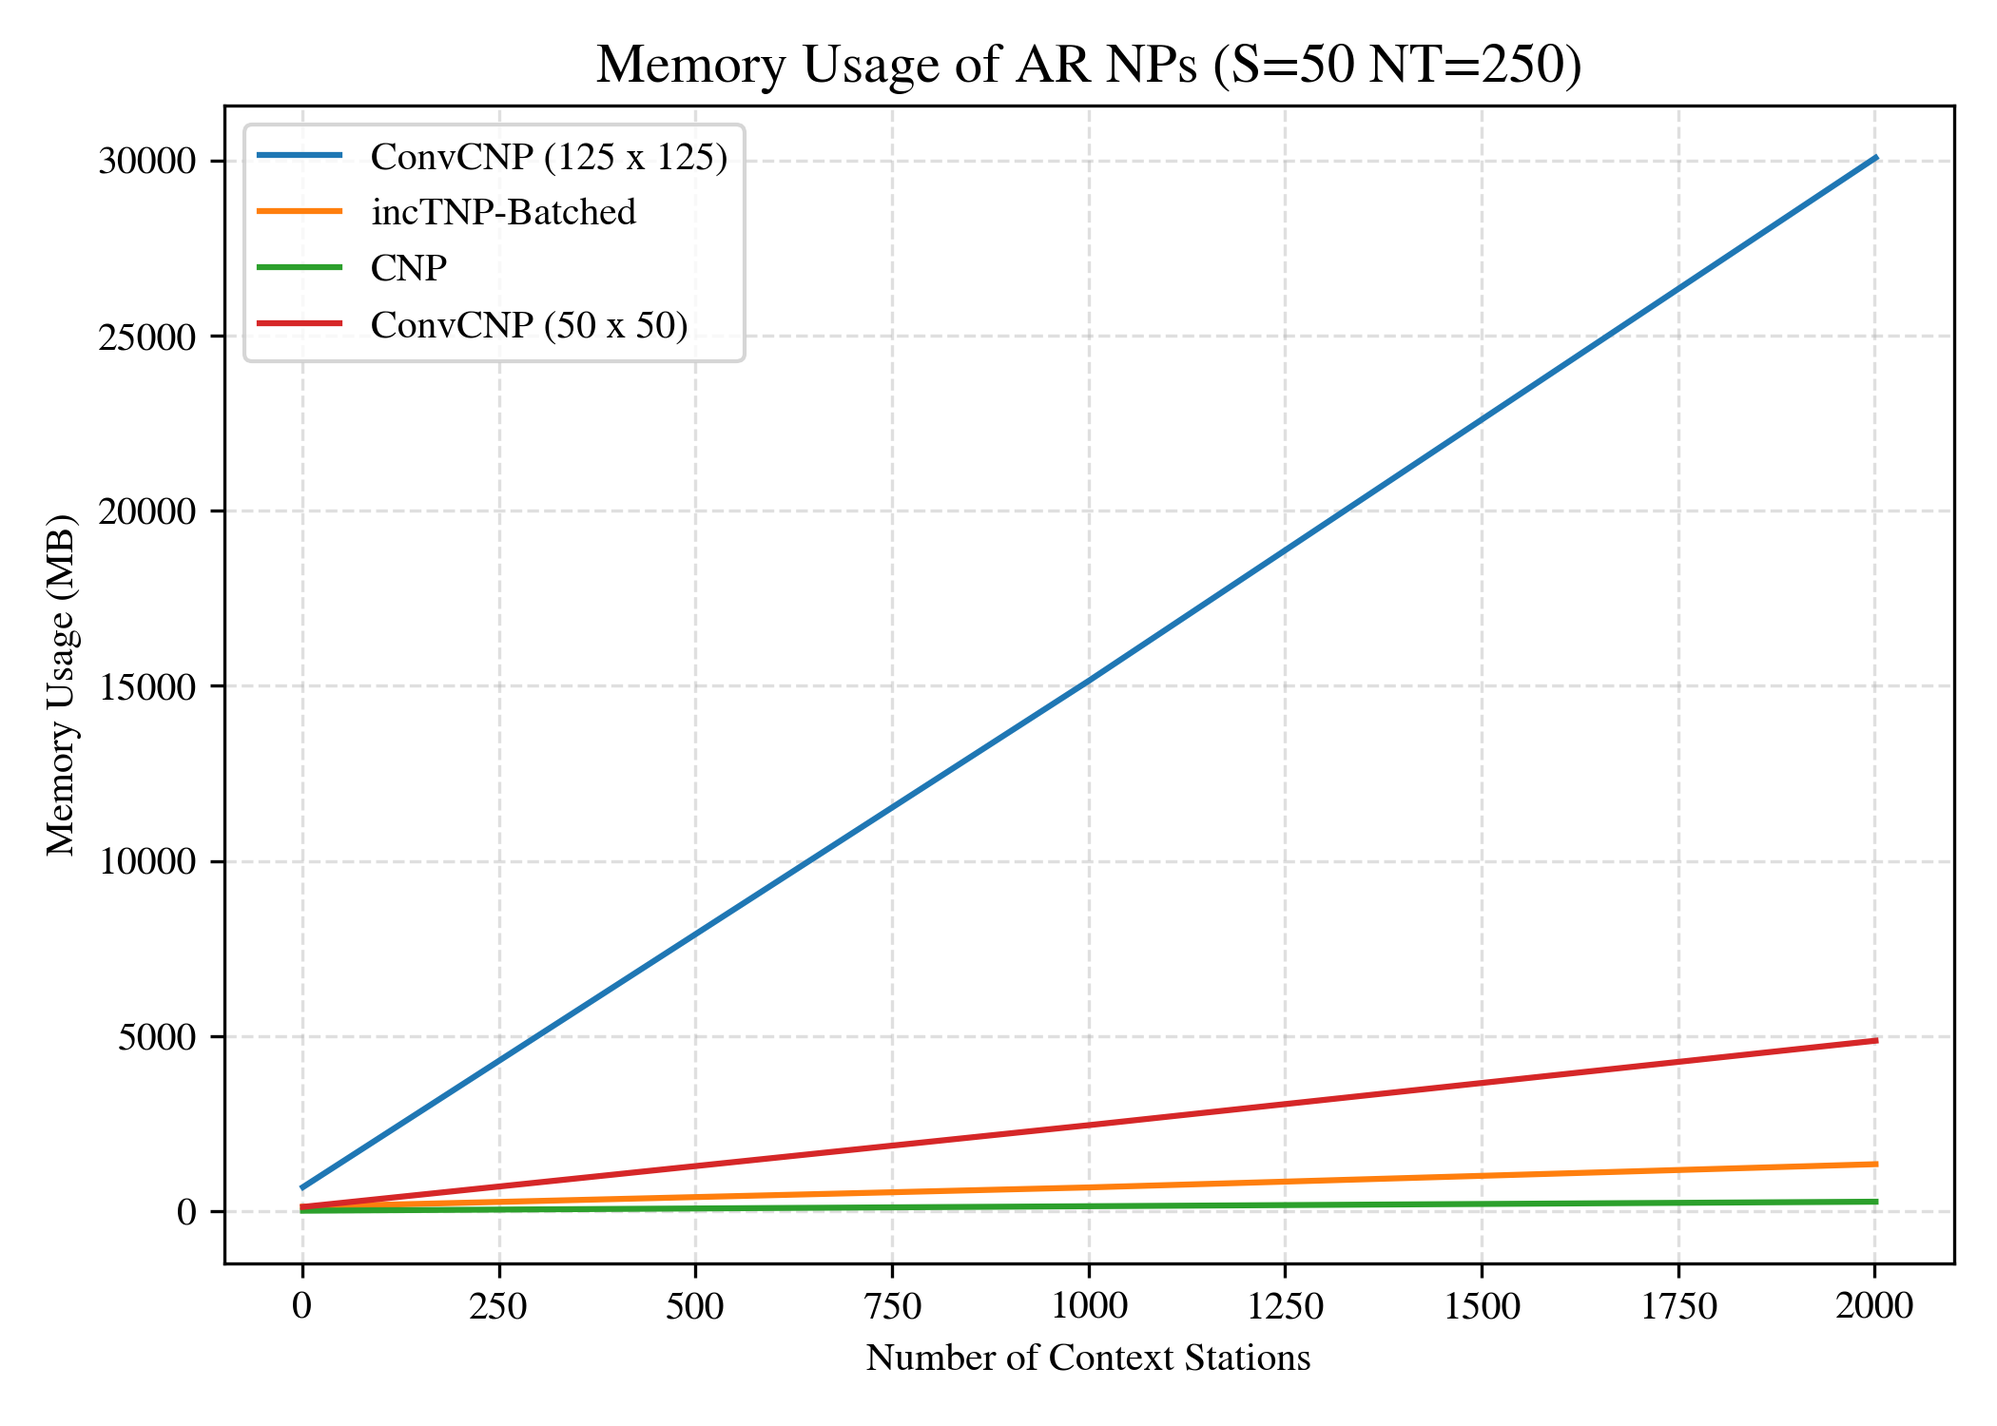
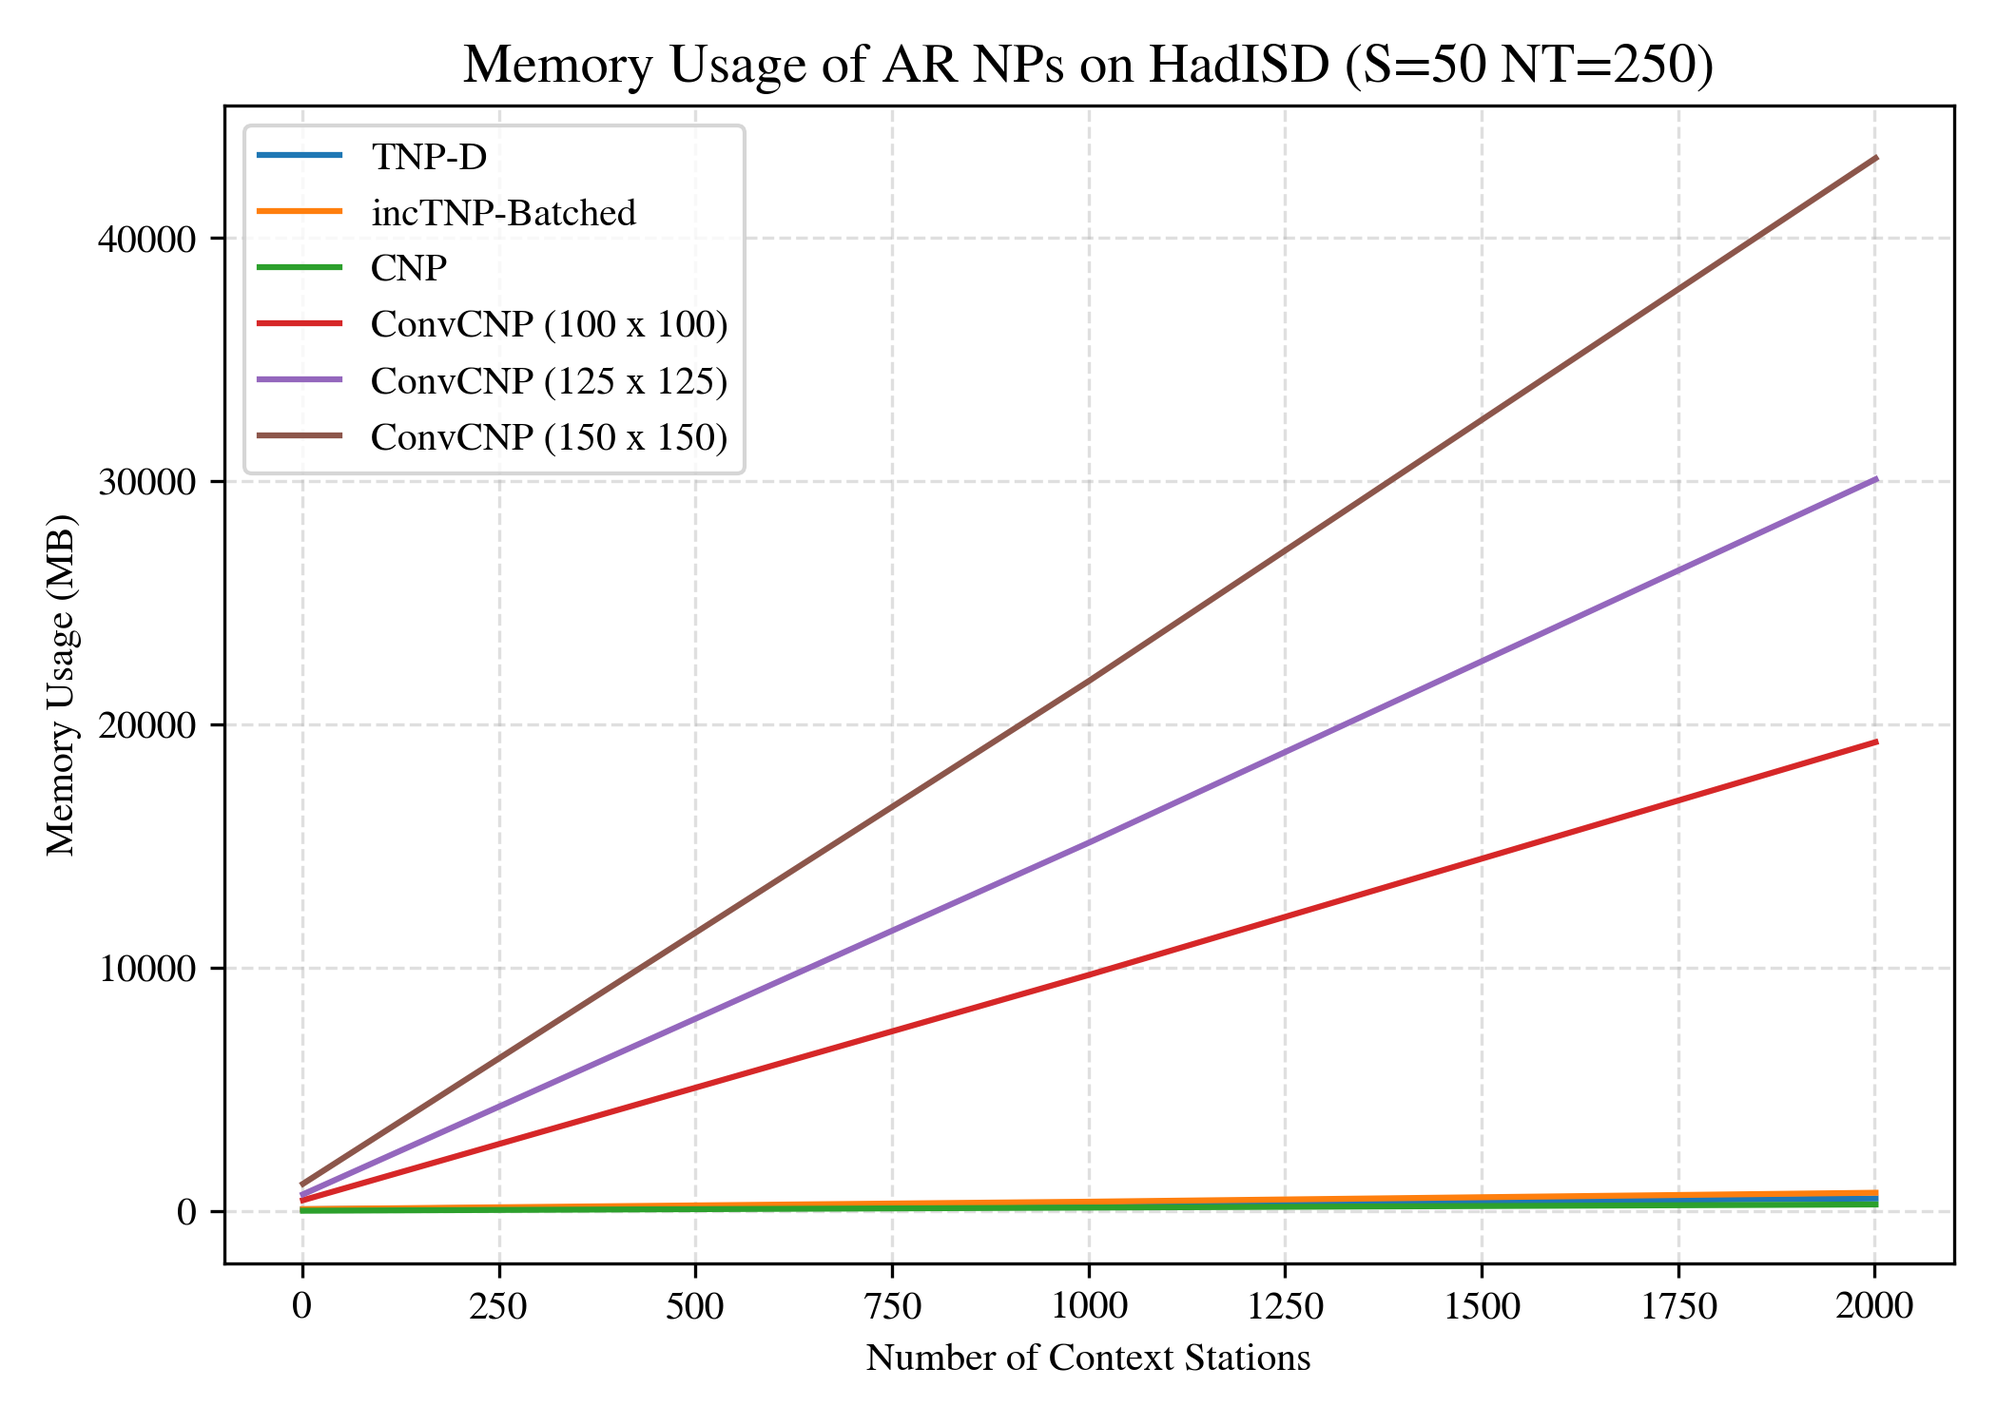
Plotting code plus flash used properly

diff --git a/experiments/arnphad_isd.py b/experiments/arnphad_isd.py
@@ -136,15 +136,15 @@ def ar_predict(model, xc: torch.Tensor, yc: torch.Tensor, xt: torch.Tensor,
     is_inc_gen_update = (is_inc_gen_update and  not prioritise_fixed) or (is_inc_gen_update and not is_fixed_inc_update)
     assert is_fixed_inc_update != is_inc_gen_update or (not is_fixed_inc_update and not is_inc_gen_update), "Xor onf fixed vs inc update"
     if is_inc_gen_update:
-        model.init_inc_structs(m=xc_stacked.shape[0], max_nc=nc+nt, device=device)
-        model.update_ctx(xc=xc_stacked, yc=yc_stacked)
+        model.init_inc_structs(m=xc_stacked.shape[0], max_nc=nc+nt, device=device,use_flash=use_flash)
+        model.update_ctx(xc=xc_stacked, yc=yc_stacked,use_flash=use_flash)
     elif is_fixed_inc_update:
         model.init_inc_structs_fixed(m=xc_stacked.shape[0], max_nc=nc+nt, xt=xt_stacked, dy=dy, device=device, use_flash=use_flash)
 
     for i in range(nt):
         xt_tmp = xt_stacked[:, i:i+1,:]
         if is_inc_gen_update:
-            pred_dist = model.query(xt=xt_tmp, dy=dy)
+            pred_dist = model.query(xt=xt_tmp, dy=dy,use_flash=use_flash)
         elif is_fixed_inc_update:
             pred_dist = model.query_fixed(tgt_start_ind=i, tgt_end_ind=i+1, use_flash=use_flash)
         else:
@@ -158,7 +158,7 @@ def ar_predict(model, xc: torch.Tensor, yc: torch.Tensor, xt: torch.Tensor,
         if i < nt - 1:
             yt_sampled = pred_dist.sample() # [m * num_samples, 1, dy]
             if is_inc_gen_update:
-                model.update_ctx(xc=xt_tmp, yc=yt_sampled)
+                model.update_ctx(xc=xt_tmp, yc=yt_sampled,use_flash=use_flash)
             elif is_fixed_inc_update:
                 model.update_ctx_fixed(xc=xt_tmp, yc=yt_sampled, use_flash=use_flash)
             else:
@@ -267,7 +267,7 @@ def measure_perf_timings_hadisd_plot():
     # Measure hypers
     burn_in = 1 # Number of burn in runs to ignore
     aggregate_over = 1 # Number of runs to aggregate data over
-    token_step = 1000 # How many increments of tokens to go up in
+    token_step = 50 # How many increments of tokens to go up in
     min_nc, max_nc = 1, 2003
     nt = 250
     dx, dy, m = 4, 1, 1
@@ -279,8 +279,8 @@ def measure_perf_timings_hadisd_plot():
     plot_name_folder = "experiments/plot_results/hadar/perf_plt/"
     tnp_plain = ('experiments/configs/hadISD/had_tnp_plain.yml',
         'pm846-university-of-cambridge/plain-tnp-had/model-o20d6s1q:v99', 'TNP-D')
-    priorBatched = ('experiments/configs/hadISD/had_incTNP_priorbatched.yml',
-        'pm846-university-of-cambridge/mask-priorbatched-tnp-had/model-83h4gpp2:v99', 'incTNP-Batched')
+    batchedTNP = ('experiments/configs/hadISD/had_incTNP_batched.yml',
+        'pm846-university-of-cambridge/mask-batched-tnp-had/model-z5nlguxq:v99', 'incTNP-Batched')
     cnp = ('experiments/configs/hadISD/had_cnp.yml',
         'pm846-university-of-cambridge/cnp-had/model-suqmhf9v:v99', 'CNP')
     conv_cnp = ('experiments/configs/hadISD/had_convcnp.yml',
@@ -288,8 +288,10 @@ def measure_perf_timings_hadisd_plot():
     conv_cnp_big = ('experiments/configs/hadISD/alt_variants/had_big_convcnp.yml',
         '', 'ConvCNP (100 x 100)')
     conv_cnp_125 = ('experiments/configs/hadISD_csd3/alt_variants/had_125_convcnp.yml',
-        '', 'ConvCNP (125 x 125)')    
-    models = [conv_cnp_125, priorBatched, cnp, conv_cnp, ]
+        '', 'ConvCNP (125 x 125)') 
+    conv_cnp_150 = ('experiments/configs/hadISD_csd3/alt_variants/had_between_convcnp.yml',
+        '', 'ConvCNP (150 x 150)')      
+    models = [tnp_plain, batchedTNP, cnp, conv_cnp_big, conv_cnp_125, conv_cnp_150]
     # End of measure hypers
     max_high = 2
     xt = (torch.rand((m, nt, dx), device=device) * max_high * 2) - max_high
@@ -300,8 +302,8 @@ def measure_perf_timings_hadisd_plot():
     starter, ender = torch.cuda.Event(enable_timing=True), torch.cuda.Event(enable_timing=True)
     for model_idx, (model_yml, model_wab, model_name) in enumerate(models):
         use_flash = False
-        if model_name == "incTNP-Batched":   # MAKE SURE TO ALTER ATTENTION CODE WHEN RUNNING THIS PART. With proper flash attentiin inc wins     
-            use_flash=False
+        if model_name == "incTNP-Batched":
+            use_flash=True
         model = get_model(model_yml, model_wab, seed=False, device=device, instantiate_only_model=True, load_mod_weights=False)
         model.eval() 
         for t_index, nc in tqdm(enumerate(context_sizes), desc=f'Targ {model_name}'):
@@ -341,7 +343,7 @@ def measure_perf_timings_hadisd_plot():
     ax.set_xlabel('Number of Context Stations')
     ax.set_ylabel('Runtime (s)')
     ax.legend()
-    ax.set_title(f'Runtime of AR NPs (S={num_samples} NT={nt})')
+    ax.set_title(f'Runtime of AR NPs on HadISD (S={num_samples} NT={nt})')
     ax.grid(True, linestyle='--', alpha=0.4)
     fig.tight_layout()
     plt.savefig(runtime_file_name, dpi=300)
@@ -353,7 +355,7 @@ def measure_perf_timings_hadisd_plot():
     ax.set_xlabel('Number of Context Stations')
     ax.set_ylabel('Memory Usage (MB)')
     ax.legend()
-    ax.set_title(f'Memory Usage of AR NPs (S={num_samples} NT={nt})')
+    ax.set_title(f'Memory Usage of AR NPs on HadISD (S={num_samples} NT={nt})')
     ax.grid(True, linestyle='--', alpha=0.4)
     fig.tight_layout()
     plt.savefig(memory_file_name, dpi=300)
@@ -463,7 +465,9 @@ def get_model_list():
     cnp = ('experiments/configs/hadISD/had_cnp.yml',
         'pm846-university-of-cambridge/cnp-had/model-suqmhf9v:v99', 'CNP')
     conv_cnp = ('experiments/configs/hadISD/had_convcnp.yml',
-        'pm846-university-of-cambridge/convcnp-had/model-p4f775ey:v98', 'ConvCNP')    
+        'pm846-university-of-cambridge/convcnp-had/model-p4f775ey:v98', 'ConvCNP (50 x 50)')
+    conv_cnp_100 = ('experiments/configs/hadISD/alt_variants/had_big_convcnp.yml',
+        'pm846-university-of-cambridge/convcnp-had/model-ecytkrfq:v99', 'ConvCNP (100 x 100)')
     #models = [tnp_plain, incTNP, batchedTNP, priorBatched, lbanp, cnp, conv_cnp]
     #models = [batchedTNP, conv_cnp, cnp, incTNP, priorBatched, tnp_plain, lbanp]
     models = [tnp_plain, conv_cnp, batchedTNP, cnp]

diff --git a/tnp/models/incTNPBatchedPrior.py b/tnp/models/incTNPBatchedPrior.py
@@ -102,15 +102,15 @@ class IncTNPBatchedEncoderPrior(nn.Module):
     @check_shapes(
         "zc_new: [m, nc_new, dz]", "mask_sa_big: [m, nc_max, nc_max]"
     )
-    def update_context(self, zc_new: torch.Tensor, kv_cache: dict, mask_sa_big: Optional[torch.Tensor] = None) -> torch.Tensor:
-        zc_updated = self.transformer_encoder.encode_context(zc_new, kv_cache=kv_cache)
+    def update_context(self, zc_new: torch.Tensor, kv_cache: dict, mask_sa_big: Optional[torch.Tensor] = None, use_flash: bool=False) -> torch.Tensor:
+        zc_updated = self.transformer_encoder.encode_context(zc_new, kv_cache=kv_cache, use_flash=use_flash)
 
     # Once the context has been conditioned on, this is used to run predictions. Essentially just the CA branch.
     @check_shapes(
         "zt: [m, nt, dz]", "return: [m, nt, dz]"
     )
-    def query(self, zt: torch.Tensor, kv_cache: dict) -> torch.Tensor:
-        return self.transformer_encoder.query(zt, kv_cache)
+    def query(self, zt: torch.Tensor, kv_cache: dict, use_flash: bool=False) -> torch.Tensor:
+        return self.transformer_encoder.query(zt, kv_cache, use_flash=use_flash)
 
     @check_shapes(
         "x: [m, n, dx]", "y: [m, n, dy]","return: [m, n, dz]"
@@ -198,21 +198,21 @@ class IncTNPBatchedPrior(BatchedCausalTNPPrior, IncUpdateEff, IncUpdateEffFixed)
         return dist
 
     # Logic for effecient incremental context updates
-    def init_inc_structs(self, m: int, max_nc: int, device: str):
+    def init_inc_structs(self, m: int, max_nc: int, device: str, use_flash: bool=False):
         self.kv_cache_inc = init_kv_cache()
         # Adds empty token
         start_token = self.encoder.empty_token.expand(m, -1, -1)
-        self.encoder.update_context(start_token, self.kv_cache_inc)
+        self.encoder.update_context(start_token, self.kv_cache_inc,use_flash=use_flash)
 
 
     # Adds new context points
-    def update_ctx(self, xc: torch.Tensor, yc: torch.Tensor):
+    def update_ctx(self, xc: torch.Tensor, yc: torch.Tensor, use_flash: bool=False):
         zc = self.encoder._preprocess_context(xc, yc)
-        self.encoder.update_context(zc, self.kv_cache_inc)
+        self.encoder.update_context(zc, self.kv_cache_inc,use_flash=use_flash)
 
-    def query(self, xt: torch.Tensor, dy: int) -> td.Normal:
+    def query(self, xt: torch.Tensor, dy: int, use_flash: bool=False) -> td.Normal:
         zt = self.encoder._preprocess_targets(xt, dy)
-        return self.likelihood(self.decoder(self.encoder.query(zt, self.kv_cache_inc), xt))
+        return self.likelihood(self.decoder(self.encoder.query(zt, self.kv_cache_inc, use_flash=use_flash), xt))
 
     # Greedy Context ordering algorithm using KV caching. Note it is incremental (so given an initial context set + a number of new ctx points it can pick the best order)
     # This approach assumes we already have all context points.

diff --git a/tnp/models/convcnp.py b/tnp/models/convcnp.py
@@ -115,7 +115,7 @@ class ConvCNP(ConditionalNeuralProcess, IncUpdateEff):
         self.likelihood.min_noise = 1e-5 #  Adds little noise here because sometimes scale is exactly 0 - check to ensure this is small enough to not impact other perf - hacky
 
     # Effecient incremental updates should only be used for hadIsd where this results in measurable speedup
-    def init_inc_structs(self, m: int, max_nc: int, device: str):
+    def init_inc_structs(self, m: int, max_nc: int, device: str, use_flash: bool=False):
         if not self.encoder.hadisd_mode:
                 raise RuntimeError("Uses non inc updates for 1d due to low cost.")
         self.inc_cache = {} # This is an empty cache structure used soley for storing incremental update objects
@@ -127,7 +127,7 @@ class ConvCNP(ConditionalNeuralProcess, IncUpdateEff):
         self.inc_cache["z_grid"] = None # Inits on first call to context update
 
     # Adds new context points
-    def update_ctx(self, xc: torch.Tensor, yc: torch.Tensor):
+    def update_ctx(self, xc: torch.Tensor, yc: torch.Tensor, use_flash: bool=False):
         # Builds hadISD feature vector
         flag = torch.ones_like(yc[..., :1])
         elev = xc[..., 2:3]
@@ -149,7 +149,7 @@ class ConvCNP(ConditionalNeuralProcess, IncUpdateEff):
         self.inc_cache["z_grid"] = setconv_to_grid(xc_coords, z_feats, self.inc_cache["x_grid"], 
             self.encoder.grid_encoder.lengthscale, z_grid=self.inc_cache["z_grid"], dist_fn=self.encoder.grid_encoder.dist_fn)
 
-    def query(self, xt: torch.Tensor, dy: int) -> td.Normal:
+    def query(self, xt: torch.Tensor, dy: int, use_flash: bool=False) -> td.Normal:
         # Runs CNN and z encoder as before
         xt_coords = xt[..., :2]
         z_grid = self.encoder.z_encoder(self.inc_cache["z_grid"])

diff --git a/tnp/networks/transformer.py b/tnp/networks/transformer.py
@@ -132,13 +132,13 @@ class TNPTransformerFullyMaskedEncoder(nn.Module):
     @check_shapes(
         "zc_new: [m, nc_new, dz]"
     )
-    def encode_context(self, zc_new: torch.Tensor, kv_cache: dict):
+    def encode_context(self, zc_new: torch.Tensor, kv_cache: dict, use_flash: bool = False):
         L = len(self.mhsa_layers)
         m, nc_new, dz = zc_new.shape
         ctx_vals = torch.empty((L, m, nc_new, dz), device=zc_new.device)
         for i, mhsa_layer in enumerate(self.mhsa_layers):
             self_attention_layer_tag = f"layer_{i}_sa" # Layer tag for KV
-            zc_new = mhsa_layer(zc_new, kv_cache=kv_cache, kv_tag=self_attention_layer_tag)
+            zc_new = mhsa_layer(zc_new, kv_cache=kv_cache, kv_tag=self_attention_layer_tag,use_flash=use_flash)
             # Writes updated context
             ctx_tag = f"context_layer_{i}"
             update_ctx_cache(zc_new, kv_cache, ctx_tag)
@@ -147,10 +147,10 @@ class TNPTransformerFullyMaskedEncoder(nn.Module):
     @check_shapes(
         "zt: [m, nt, dz]", "return: [m, nt, dz]"
     )
-    def query(self, zt, kv_cache: dict) -> torch.Tensor:
+    def query(self, zt, kv_cache: dict, use_flash: bool = False) -> torch.Tensor:
         for i, mhca_layer in enumerate(self.mhca_layers):
             ctx_tag = f"context_layer_{i}"
-            zt = mhca_layer(zt, kv_cache[ctx_tag])
+            zt = mhca_layer(zt, kv_cache[ctx_tag],use_flash=use_flash)
         return zt
 
 

diff --git a/tnp/models/cnp.py b/tnp/models/cnp.py
@@ -59,7 +59,7 @@ class CNP(ConditionalNeuralProcess, IncUpdateEff):
 
 
     # Effecient incremental updates should only be used for hadIsd where this results in measurable speedup
-    def init_inc_structs(self, m: int, max_nc: int, device: str):
+    def init_inc_structs(self, m: int, max_nc: int, device: str, use_flash: bool=False):
         if self.encoder.deepset.agg_strat_str != "mean" and self.encoder.deepset.agg_strat_str!= "sum":
             raise ValueError("Only mean and sum CNP inc supported atm")
 
@@ -68,7 +68,7 @@ class CNP(ConditionalNeuralProcess, IncUpdateEff):
         self.inc_cache["running_sum"] = None
 
     # Adds new context points
-    def update_ctx(self, xc: torch.Tensor, yc: torch.Tensor):
+    def update_ctx(self, xc: torch.Tensor, yc: torch.Tensor, use_flash: bool=False):
         xc_encoded = self.encoder.x_encoder(xc)
         yc_encoded = self.encoder.y_encoder(yc)
         z = torch.cat((xc_encoded, yc_encoded), dim=-1)
@@ -84,7 +84,7 @@ class CNP(ConditionalNeuralProcess, IncUpdateEff):
         self.inc_cache["n_points"] += n_new
         self.inc_cache["running_sum"] += sum_new
 
-    def query(self, xt: torch.Tensor, dy: int) -> td.Normal:
+    def query(self, xt: torch.Tensor, dy: int, use_flash: bool=False) -> td.Normal:
         xt_encoded = self.encoder.x_encoder(xt)
 
         zc = self.inc_cache["running_sum"]

diff --git a/tnp/models/castnp.py b/tnp/models/castnp.py
@@ -85,15 +85,15 @@ class TNPCausal(ConditionalNeuralProcess, IncUpdateEff):
         super().__init__(encoder, decoder, likelihood)
 
     # Logic for effecient incremental context updates
-    def init_inc_structs(self, m: int, max_nc: int, device: str):
+    def init_inc_structs(self, m: int, max_nc: int, device: str, use_flash: bool=False):
         self.kv_cache_inc = init_kv_cache()
 
 
     # Adds new context points
-    def update_ctx(self, xc: torch.Tensor, yc: torch.Tensor):
+    def update_ctx(self, xc: torch.Tensor, yc: torch.Tensor, use_flash: bool=False):
         zc = self.encoder._preprocess_context(xc, yc)
-        self.encoder.transformer_encoder.encode_context(zc, self.kv_cache_inc)
+        self.encoder.transformer_encoder.encode_context(zc, self.kv_cache_inc, use_flash=use_flash)
 
-    def query(self, xt: torch.Tensor, dy: int) -> td.Normal:
+    def query(self, xt: torch.Tensor, dy: int, use_flash: bool=False) -> td.Normal:
         zt = self.encoder._preprocess_targets(xt, dy)
-        return self.likelihood(self.decoder(self.encoder.transformer_encoder.query(zt, self.kv_cache_inc), xt))
+        return self.likelihood(self.decoder(self.encoder.transformer_encoder.query(zt, self.kv_cache_inc, use_flash=use_flash), xt))

diff --git a/tnp/models/incTNPBatched.py b/tnp/models/incTNPBatched.py
@@ -134,16 +134,16 @@ class IncTNPBatched(BatchedCausalTNP, IncUpdateEff):
         super().__init__(encoder, decoder, likelihood)
 
     # Logic for effecient incremental context updates
-    def init_inc_structs(self, m: int, max_nc: int, device: str):
+    def init_inc_structs(self, m: int, max_nc: int, device: str, use_flash: bool=False):
         self.kv_cache_inc = init_kv_cache()
 
 
     # Adds new context points
-    def update_ctx(self, xc: torch.Tensor, yc: torch.Tensor):
+    def update_ctx(self, xc: torch.Tensor, yc: torch.Tensor, use_flash: bool=False):
         zc = self.encoder._preprocess_context(xc, yc)
-        self.encoder.transformer_encoder.encode_context(zc, self.kv_cache_inc)
+        self.encoder.transformer_encoder.encode_context(zc, self.kv_cache_inc, use_flash=use_flash)
 
-    def query(self, xt: torch.Tensor, dy: int) -> td.Normal:
+    def query(self, xt: torch.Tensor, dy: int, use_flash: bool=False) -> td.Normal:
         zt = self.encoder._preprocess_targets(xt, dy)
-        return self.likelihood(self.decoder(self.encoder.transformer_encoder.query(zt, self.kv_cache_inc), xt))
+        return self.likelihood(self.decoder(self.encoder.transformer_encoder.query(zt, self.kv_cache_inc, use_flash=use_flash), xt))
 

diff --git a/tnp/models/incUpdateBase.py b/tnp/models/incUpdateBase.py
@@ -6,15 +6,15 @@ import torch.distributions as td
 # General inc updates
 class IncUpdateEff(ABC):
     @abstractmethod
-    def init_inc_structs(self, m: int, max_nc: int, device: str):
+    def init_inc_structs(self, m: int, max_nc: int, device: str, use_flash: bool):
         raise NotImplementedError
     
     @abstractmethod
-    def update_ctx(self, xc: torch.Tensor, yc: torch.Tensor):
+    def update_ctx(self, xc: torch.Tensor, yc: torch.Tensor, use_flash: bool):
         raise NotImplementedError
 
     @abstractmethod
-    def query(self, xt: torch.Tensor, dy: int) -> td.Normal:
+    def query(self, xt: torch.Tensor, dy: int, use_flash: bool) -> td.Normal:
         raise NotImplementedError
 
 
